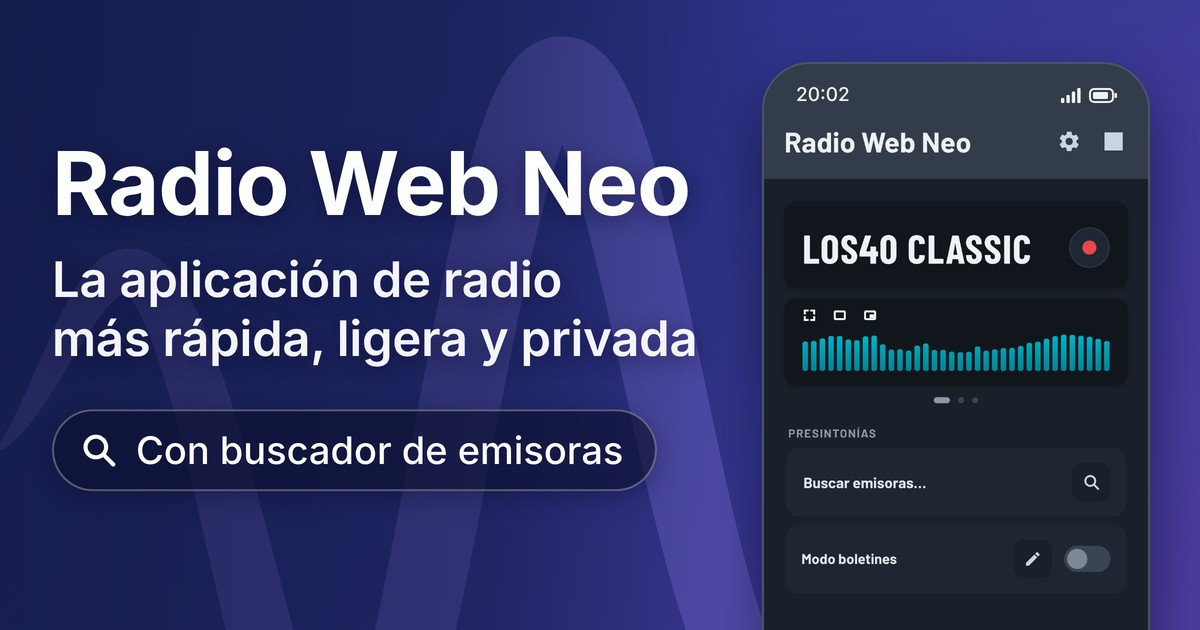
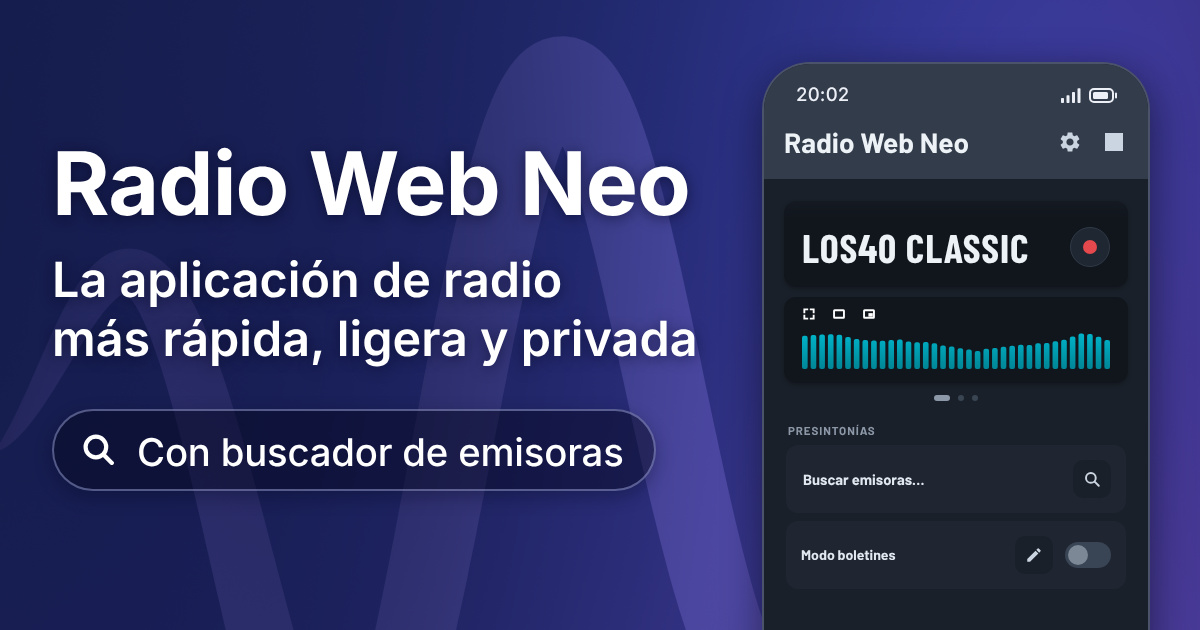
Imagen para redes más nítida (JPEG sin submuestreo, ?v=7)
Claude-Session: https://claude.ai/code/session_01XLSZwi7gqwGtwSxGhBaW6m

diff --git a/sw.js b/sw.js
@@ -4,7 +4,7 @@
 // Excepción: default/ (los ajustes por defecto, con las URL de los streams, que cambian con el tiempo) y los archivos de bbdd/ (la base de datos de emisoras, para la búsqueda) van "red primero", con la caché de respaldo.
 // Los sonidos y la imagen de la notificación (sounds/, img/) NO se gestionan aquí: la propia página los guarda en la caché "rn-sounds", que este archivo respeta.
 // Los streams (otro origen) tampoco pasan por aquí.
-const CACHE = 'rn-shell-420-1';   // versión 420 (la pública, APP_VERSION) y el número de publicación dentro de ella: sin cambiar el nombre, la caché no se renovaría
+const CACHE = 'rn-shell-420-2';   // versión 420 (la pública, APP_VERSION) y el número de publicación dentro de ella: sin cambiar el nombre, la caché no se renovaría
 const NET_WAIT_MS = 3000;   // lo que se espera a la red por default/ y bbdd/ antes de tirar de la copia guardada
 const SHELL = [
   './', './css/styles.css', './fonts/barlow-latin-400-normal.woff2', './fonts/barlow-latin-500-normal.woff2', './fonts/barlow-latin-600-normal.woff2', './fonts/barlow-latin-700-normal.woff2', './fonts/barlow-condensed-latin-700-normal.woff2', './favicon.ico', './favicon-32.png', './icon.svg', './default/cadenas.json', './default/general.json', './bbdd/ser.json', './bbdd/los40.json', './bbdd/resto.json',

diff --git a/index.html b/index.html
@@ -15,7 +15,7 @@
 <meta property="og:url" content="https://radioneo.pages.dev/">
 <meta property="og:site_name" content="Radio Web Neo">
 <meta property="og:locale" content="es_ES">
-<meta property="og:image" content="https://radioneo.pages.dev/img/og-neo.jpg?v=6">
+<meta property="og:image" content="https://radioneo.pages.dev/img/og-neo.jpg?v=7">
 <meta property="og:image:width" content="1200">
 <meta property="og:image:height" content="630">
 <meta property="og:image:alt" content="Radio Web Neo: la app en un móvil, con el visualizador de sonido, y el texto «La aplicación de radio más rápida, ligera y privada. Con buscador de emisoras»">
@@ -41,7 +41,7 @@
       "description": "Reproductor ligero con buscador de emisoras y boletines automáticos",
       "url": "https://radioneo.pages.dev/",
       "isPartOf": { "@id": "https://radioneo.pages.dev/#website" },
-      "image": "https://radioneo.pages.dev/img/og-neo.jpg?v=6",
+      "image": "https://radioneo.pages.dev/img/og-neo.jpg?v=7",
       "screenshot": [
         "https://radioneo.pages.dev/img/cap1-wide.webp",
         "https://radioneo.pages.dev/img/cap2-wide.webp",
